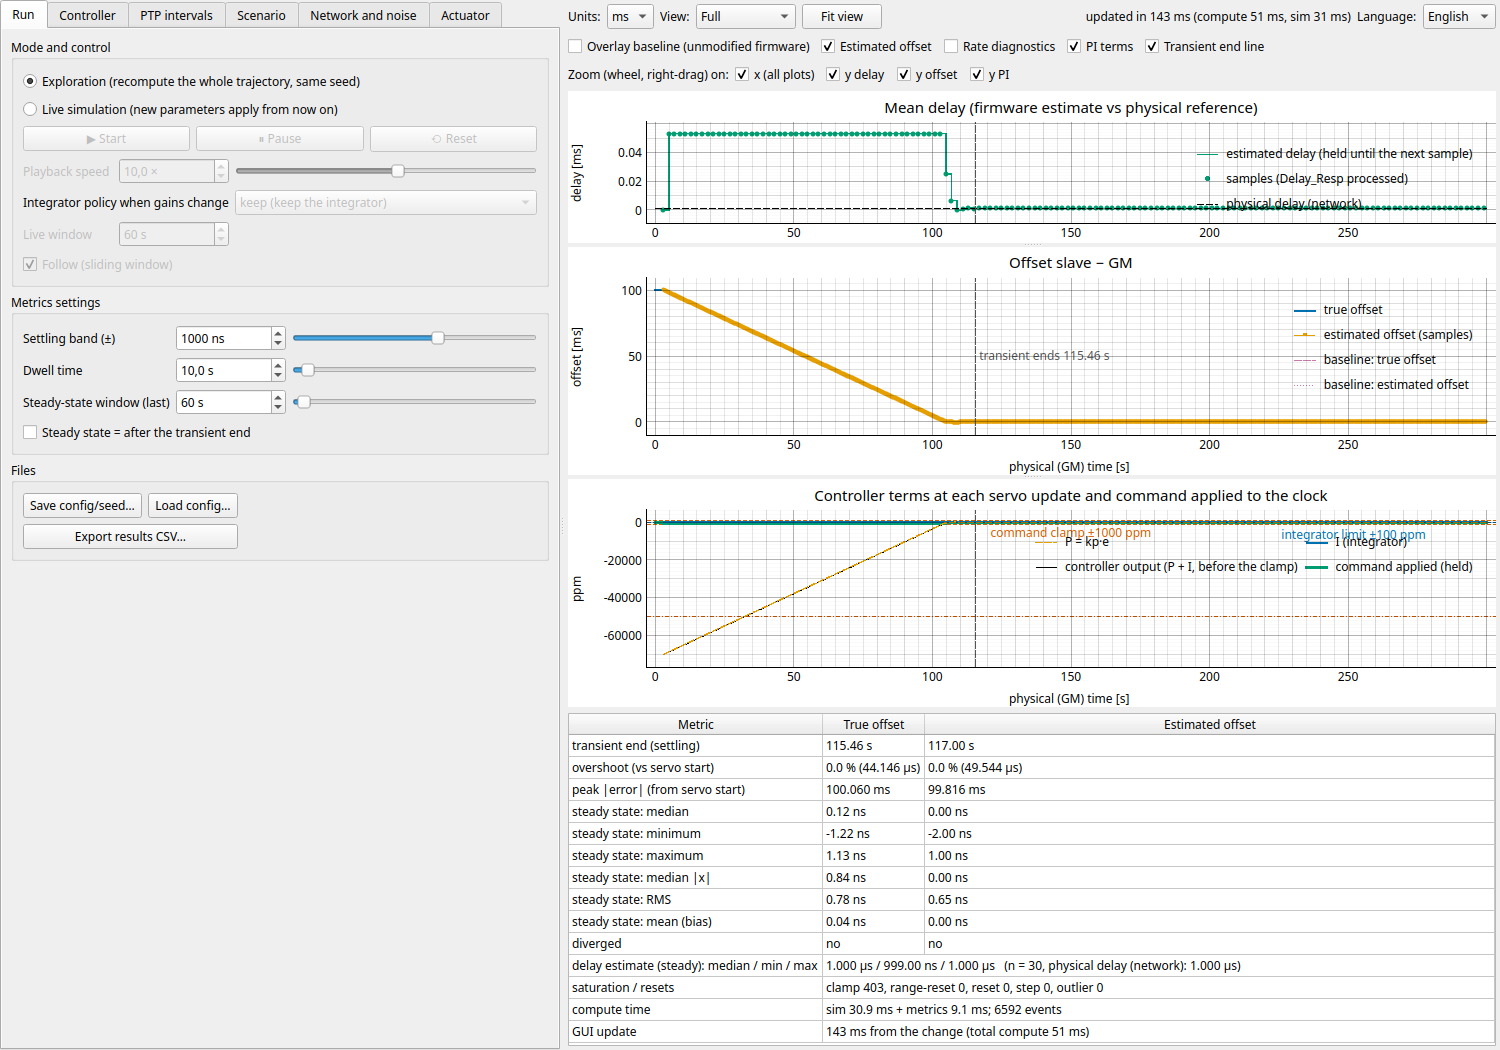
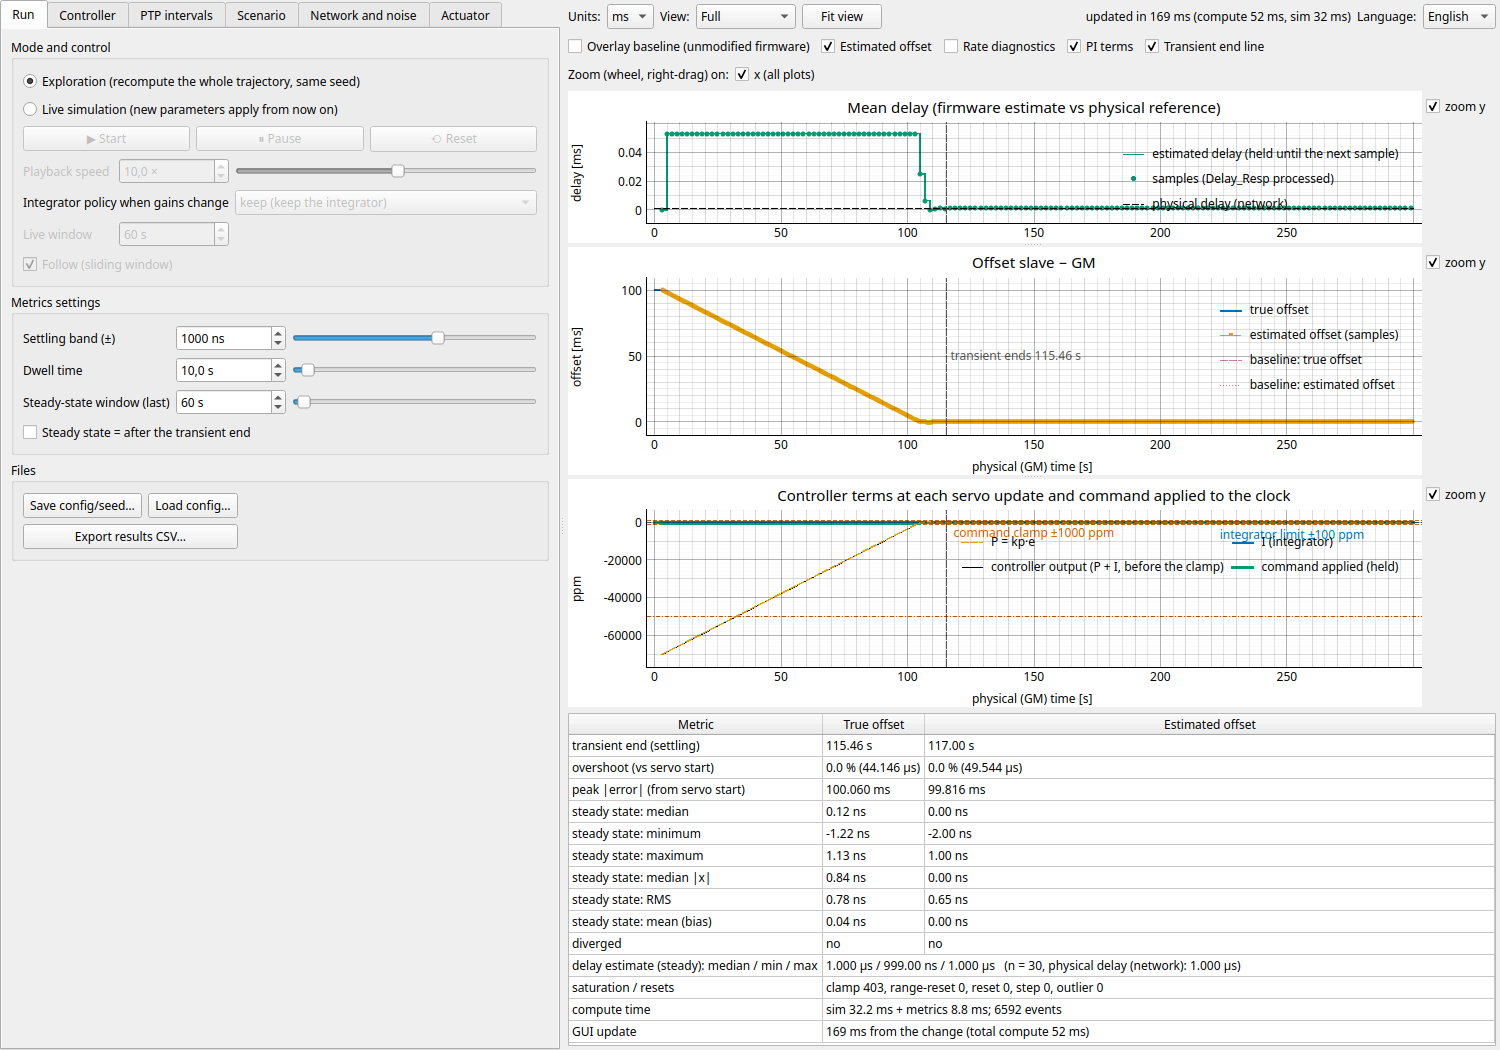
GUI: the y-zoom checkbox sits next to its own plot; docs and screenshots updated

Changed region(s): [[0.4293, 0.2438, 1.0, 0.6705], [0.4293, 0.061, 1.0, 0.2133], [0.9507, 0.2438, 0.9813, 0.2743]]

diff --git a/ptpsim/gui/app.py b/ptpsim/gui/app.py
@@ -476,11 +476,9 @@ class MainWindow(QtWidgets.QMainWindow):
         self.p_off.setLabel("bottom", T("ax_time"))
         self.p_diag.setLabel("bottom", T("ax_time"))
         self.p_diag.setLabel("left", "ppb")
-        self.pw_diag.setVisible(False)
         self.p_pi.setTitle(T("pl_pi"))
         self.p_pi.setLabel("bottom", T("ax_time"))
         self.p_pi.setLabel("left", T("ax_pi"))
-        self.pw_pi.setVisible(False)
         pen = lambda col, w=1.5, st=None: pg.mkPen(col, width=w, style=st or QtCore.Qt.SolidLine)
         self.cv = {
             "delay_step": self.p_delay.plot(pen=pen(C_DELAY, 1.5), name=T("lg_delay_step")),
@@ -507,8 +505,27 @@ class MainWindow(QtWidgets.QMainWindow):
             self.cv[k].setDownsampling(auto=True, method="peak")
             self.cv[k].setClipToView(True)
         plots = QtWidgets.QSplitter(QtCore.Qt.Vertical)
-        for w in (self.pw_delay, self.pw_off, self.pw_diag, self.pw_pi):
-            plots.addWidget(w)
+        # each plot sits in a box with its own "zoom y" checkbox in a strip on its right (the strips have the same
+        # width, so the plot areas stay aligned); diag / PI hide their whole box
+        self.chk_zoom_y, self.plot_boxes = {}, {}
+        for key, pw in (("delay", self.pw_delay), ("off", self.pw_off), ("diag", self.pw_diag), ("pi", self.pw_pi)):
+            box = QtWidgets.QWidget()
+            hl = QtWidgets.QHBoxLayout(box)
+            hl.setContentsMargins(0, 0, 0, 0)
+            hl.setSpacing(0)
+            hl.addWidget(pw, 1)
+            strip = QtWidgets.QVBoxLayout()
+            strip.setContentsMargins(4, 4, 4, 0)
+            c = QtWidgets.QCheckBox(T("zoom_y_box"))
+            c.setToolTip(T("zoom_y_tip"))
+            c.setChecked(True)
+            c.toggled.connect(self._on_zoom_changed)
+            strip.addWidget(c)
+            strip.addStretch(1)
+            hl.addLayout(strip)
+            box.setVisible(key in ("delay", "off"))
+            plots.addWidget(box)
+            self.chk_zoom_y[key], self.plot_boxes[key] = c, box
         plots.setSizes([300, 420, 180, 240])
         plots.setChildrenCollapsible(False)
         self.plots_split = plots
@@ -784,8 +801,8 @@ class MainWindow(QtWidgets.QMainWindow):
             self._live_reset()
 
     def _build_zoom_row(self) -> QtWidgets.QHBoxLayout:
-        """Which axes the wheel / right-drag zoom acts on: x is shared by all plots (they are x-linked),
-        y is chosen per plot.  The pan (left drag) is not restricted."""
+        """Which axes the wheel / right-drag zoom acts on: x is shared by all plots (they are x-linked, one checkbox
+        here); y is chosen per plot, with the checkbox next to the plot.  The pan (left drag) is not restricted."""
         row = QtWidgets.QHBoxLayout()
         row.addWidget(QtWidgets.QLabel(T("zoom_lbl")))
         self.chk_zoom_x = QtWidgets.QCheckBox(T("zoom_x"))
@@ -793,15 +810,6 @@ class MainWindow(QtWidgets.QMainWindow):
         self.chk_zoom_x.setChecked(True)
         self.chk_zoom_x.toggled.connect(self._on_zoom_changed)
         row.addWidget(self.chk_zoom_x)
-        self.chk_zoom_y = {}
-        for key, pw in (("delay", self.pw_delay), ("off", self.pw_off), ("diag", self.pw_diag), ("pi", self.pw_pi)):
-            c = QtWidgets.QCheckBox(T("zoom_y_" + key))
-            c.setToolTip(T("zoom_y_tip"))
-            c.setChecked(True)
-            c.setVisible(key in ("delay", "off"))        # diag / PI follow their plot's visibility
-            c.toggled.connect(self._on_zoom_changed)
-            row.addWidget(c)
-            self.chk_zoom_y[key] = c
         row.addStretch(1)
         self._on_zoom_changed()
         return row
@@ -812,15 +820,13 @@ class MainWindow(QtWidgets.QMainWindow):
             pw.getViewBox().zoom_enabled = [zx, self.chk_zoom_y[key].isChecked()]
 
     def _on_diag_toggled(self, on):
-        self.chk_zoom_y["diag"].setVisible(on)
-        self.pw_diag.setVisible(on)
+        self.plot_boxes["diag"].setVisible(on)
         if on:
             self._share_plot_height()
         self._redraw()
 
     def _on_pi_toggled(self, on):
-        self.chk_zoom_y["pi"].setVisible(on)
-        self.pw_pi.setVisible(on)
+        self.plot_boxes["pi"].setVisible(on)
         if on:
             self._share_plot_height()
         self._redraw()

diff --git a/tests/test_gui.py b/tests/test_gui.py
@@ -221,16 +221,16 @@ def test_zoom_axes_can_be_chosen_x_shared_y_per_plot(win):
 
 def test_zoom_checkboxes_follow_the_visibility_of_the_optional_plots(win):
     win.show()
-    assert win.chk_zoom_y["diag"].isHidden() and win.chk_zoom_y["pi"].isHidden()
+    assert win.plot_boxes["diag"].isHidden() and win.plot_boxes["pi"].isHidden()
     win.chk_diag.setChecked(True)
     win.chk_pi.setChecked(True)
-    assert not win.chk_zoom_y["diag"].isHidden() and not win.chk_zoom_y["pi"].isHidden()
+    assert not win.plot_boxes["diag"].isHidden() and not win.plot_boxes["pi"].isHidden()
     win.chk_zoom_y["pi"].setChecked(False)
     assert win.pw_pi.getViewBox().zoom_enabled == [True, False]
     win.chk_zoom_y["pi"].setChecked(True)
     win.chk_diag.setChecked(False)
     win.chk_pi.setChecked(False)
-    assert win.chk_zoom_y["diag"].isHidden() and win.chk_zoom_y["pi"].isHidden()
+    assert win.plot_boxes["diag"].isHidden() and win.plot_boxes["pi"].isHidden()
     win.hide()
 
 

diff --git a/scripts/make_gui_figures.py b/scripts/make_gui_figures.py
@@ -43,7 +43,7 @@ SCENES = {
                             "controller.name": "pi_anti_windup",
                             "controller.params": {"kp": 0.7, "ki": 0.3, "i_max_ppm": 100.0}}, pi_terms=True, units="ms",
                        size=(1500, 1050)),
-    # Zoom row: x is shared by all plots, y is zoomed only in the plot under the cursor (and only if its box is checked)
+    # Zoom checkboxes: x is shared by all plots, y is zoomed only in the plot under the cursor (and only if its box is checked)
     "zoom": dict(cfg={"duration_s": 90.0, "intervals.sync_log": -4, "oscillator.initial_offset_ns": 100e3,
                       "oscillator.freq_error_ppb": 0.0, "controller.name": "pi_per_second",
                       "controller.params": {"kp": 0.7, "ki": 0.3}}, overlay=True, zoom=True),

diff --git a/ptpsim/gui/i18n.py b/ptpsim/gui/i18n.py
@@ -215,10 +215,7 @@ STRINGS: dict[str, dict] = {
     "zoom_x_tip": _s("Time axis: shared by all plots. Left-drag pans both axes whatever is checked.",
                      "Asse del tempo: condiviso da tutti i grafici. Il trascinamento sinistro sposta entrambi gli assi "
                      "qualunque sia la selezione."),
-    "zoom_y_delay": _s("y delay", "y delay"),
-    "zoom_y_off": _s("y offset", "y offset"),
-    "zoom_y_diag": _s("y rate", "y rate"),
-    "zoom_y_pi": _s("y PI", "y PI"),
+    "zoom_y_box": _s("zoom y", "zoom y"),
     "zoom_y_tip": _s("Zoom the y axis of this plot only", "Zoom dell'asse y di questo solo grafico"),
     "btn_fit": _s("Fit view", "Adatta vista"),
     "lang": _s("Language:", "Lingua:"),

diff --git a/docs/manual.it.md b/docs/manual.it.md
@@ -52,14 +52,14 @@ Il controllore non vede mai i valori reali.
 mantenendo la configurazione (una sessione live in corso viene riavviata). La scelta viene ricordata.
 
 **Grafici.** Rotella = zoom, trascinamento = pan, tasto destro = menu pyqtgraph, "A" nell'angolo = auto-range.
-La riga **Zoom** sopra i grafici sceglie su quali assi agisce lo zoom (rotella, trascinamento col tasto destro): **x** è un
-unico interruttore per tutti i grafici (condividono l'asse del tempo), **y** ha un interruttore per grafico (i grafici rate e PI
-compaiono quando sono visibili). Gli assi non selezionati mantengono il loro intervallo durante lo zoom, ma il trascinamento
+Lo zoom (rotella, trascinamento col tasto destro) agisce sugli assi che scegli: **x** è un unico interruttore per tutti i
+grafici (la riga **Zoom** sopra i grafici; condividono l'asse del tempo), **y** ha un checkbox **zoom y** per grafico, in
+alto a destra accanto al grafico stesso (i grafici rate e PI ce l'hanno quando sono visibili). Gli assi non selezionati mantengono il loro intervallo durante lo zoom, ma il trascinamento
 (pan) non è mai limitato. Con y non selezionato il grafico si riscala comunque sui dati visibili nell'intervallo x ingrandito,
 come con "Adatta vista"; lo zoom su y di un grafico selezionato spegne l'auto-range di quell'asse finché non premi "Adatta vista".
 
-![Riga Zoom: x ingrandito, y del grafico delay deselezionato](img/gui_zoom_it.png)
-*La stessa simulazione dopo quattro scatti di rotella sul grafico dell'offset (**y offset** selezionato) e uno su quello del delay (**y delay** deselezionato): l'asse del tempo è ingrandito in entrambi i grafici (≈ 1–20 s); solo la y dell'offset è ingrandita (da −30 a 20 µs), quella del delay no: si riscala soltanto sui dati visibili nell'intervallo di tempo ingrandito.*
+![Checkbox zoom: x ingrandito, y del grafico delay deselezionato](img/gui_zoom_it.png)
+*La stessa simulazione dopo quattro scatti di rotella sul grafico dell'offset (il suo **zoom y** selezionato) e uno su quello del delay (il suo **zoom y** deselezionato): l'asse del tempo è ingrandito in entrambi i grafici (≈ 1–20 s); solo la y dell'offset è ingrandita (da −30 a 20 µs), quella del delay no: si riscala soltanto sui dati visibili nell'intervallo di tempo ingrandito.*
 
 * *Grafico Delay*: la stima del delay del firmware (verde) è **tenuta** fino all'elaborazione della Delay_Resp successiva, con un
   punto a ogni campione (così si vede la frequenza reale dei campioni); la linea nera tratteggiata è il delay fisico della rete.

diff --git a/docs/manual.en.md b/docs/manual.en.md
@@ -53,13 +53,14 @@ The controller never sees the true values.
 the current configuration (a running live session is restarted). The choice is remembered.
 
 **Plots.** Mouse wheel = zoom, drag = pan, right-click = pyqtgraph menu, double-click on the corner "A" = auto-range.
-The **Zoom** row above the plots chooses which axes the zoom (wheel, right-button drag) acts on: **x** is one switch for all
-plots (they share the time axis), **y** has one switch per plot (the rate and PI plots appear when shown). Unchecked axes keep
+The zoom (wheel, right-button drag) acts on the axes you choose: **x** is one switch for all plots (the **Zoom** row above
+the plots; they share the time axis), **y** has one **zoom y** checkbox per plot, at the top right next to the plot itself
+(the rate and PI plots have theirs when shown). Unchecked axes keep
 their range when zooming, but dragging (pan) is never restricted. With y unchecked the plot still rescales to the data visible
 in the zoomed x range, as in "Fit view"; zooming on y with a checked plot switches that plot's y auto-range off until "Fit view".
 
-![Zoom row: x zoomed, y of the delay plot unchecked](img/gui_zoom_en.png)
-*The same run after four wheel notches over the offset plot (**y offset** checked) and one over the delay plot (**y delay** unchecked): the time axis is zoomed in both plots (≈ 1–20 s); only the offset plot's y is zoomed (−30 to 20 µs), the delay plot's y is not — it merely rescales to the data visible in the zoomed time range.*
+![Zoom checkboxes: x zoomed, y of the delay plot unchecked](img/gui_zoom_en.png)
+*The same run after four wheel notches over the offset plot (its **zoom y** checked) and one over the delay plot (its **zoom y** unchecked): the time axis is zoomed in both plots (≈ 1–20 s); only the offset plot's y is zoomed (−30 to 20 µs), the delay plot's y is not — it merely rescales to the data visible in the zoomed time range.*
 
 * *Delay plot*: the firmware's delay estimate (green) is **held** until the next Delay_Resp is processed, with a dot at
   every sample (so the real sampling rate is visible); the dashed black line is the physical delay of the network.
